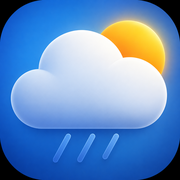
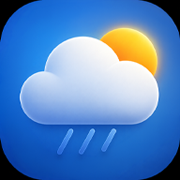
Add files via upload

diff --git a/index.html b/index.html
@@ -18,8 +18,8 @@
     <link rel="apple-touch-icon" href="./icon-180.png">
 
     <!-- Icons -->
-    <link rel="icon" type="image/png" sizes="32x32" href="./icon-32.png">
-    <link rel="icon" type="image/png" sizes="16x16" href="./icon-16.png">
+    <link rel="icon" type="image/png" sizes="32x32" href="./favicon-32.png">
+    <link rel="icon" type="image/png" sizes="16x16" href="./favicon-16.png">
     <link rel="icon" type="image/png" href="./favicon.png">
 
     <script src="https://cdn.tailwindcss.com"></script>
@@ -133,7 +133,7 @@
                 
                 <!-- Brand -->
                 <div class="flex items-center gap-2 flex-shrink-0 self-start md:self-center">
-                    <img src="./icon-32.png" alt="SkyFlow" class="w-6 h-6 rounded-md">
+                    <img src="./favicon-32.png" alt="SkyFlow" class="w-6 h-6 rounded-md">
                     <span class="text-lg font-bold tracking-tight text-white">SkyFlow</span>
                 </div>
 

diff --git a/sw.js b/sw.js
@@ -4,6 +4,8 @@ const APP_SHELL = [
   './index.html',
   './manifest.json',
   './favicon.png',
+  './favicon-16.png',
+  './favicon-32.png',
   './icon-192.png',
   './icon-512.png'
 ];